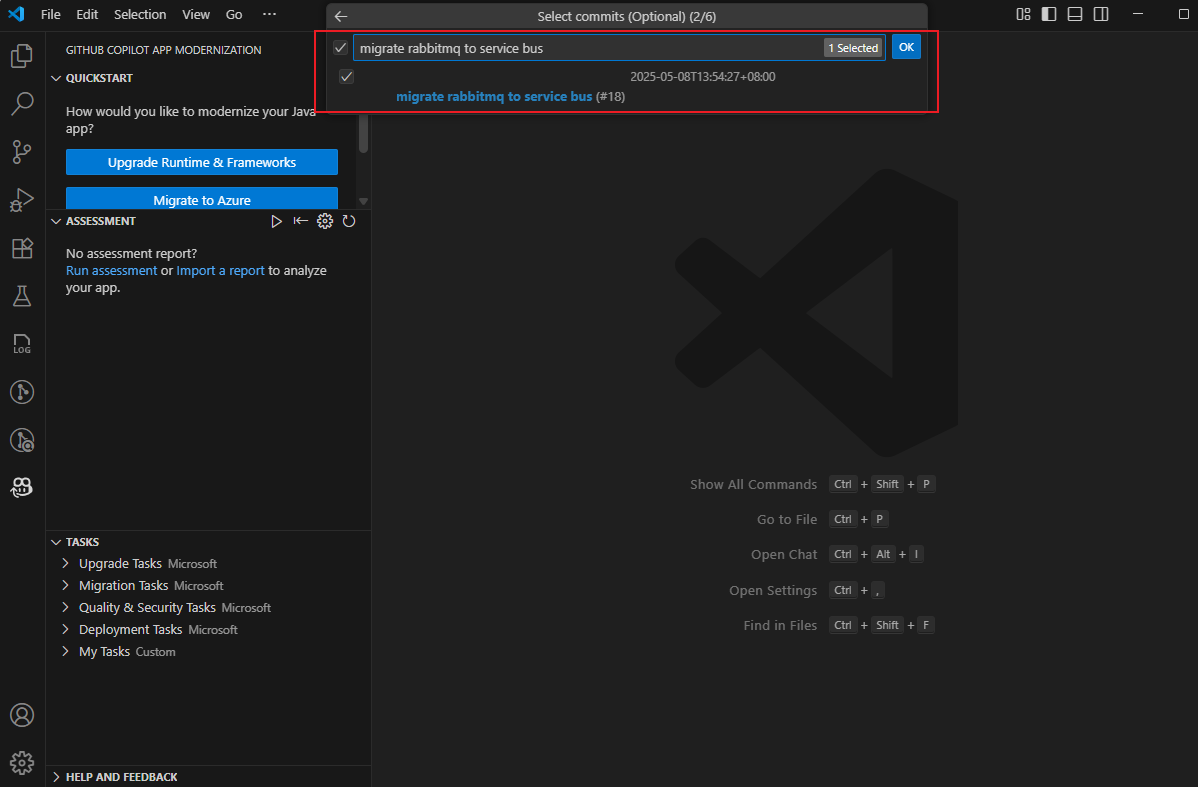
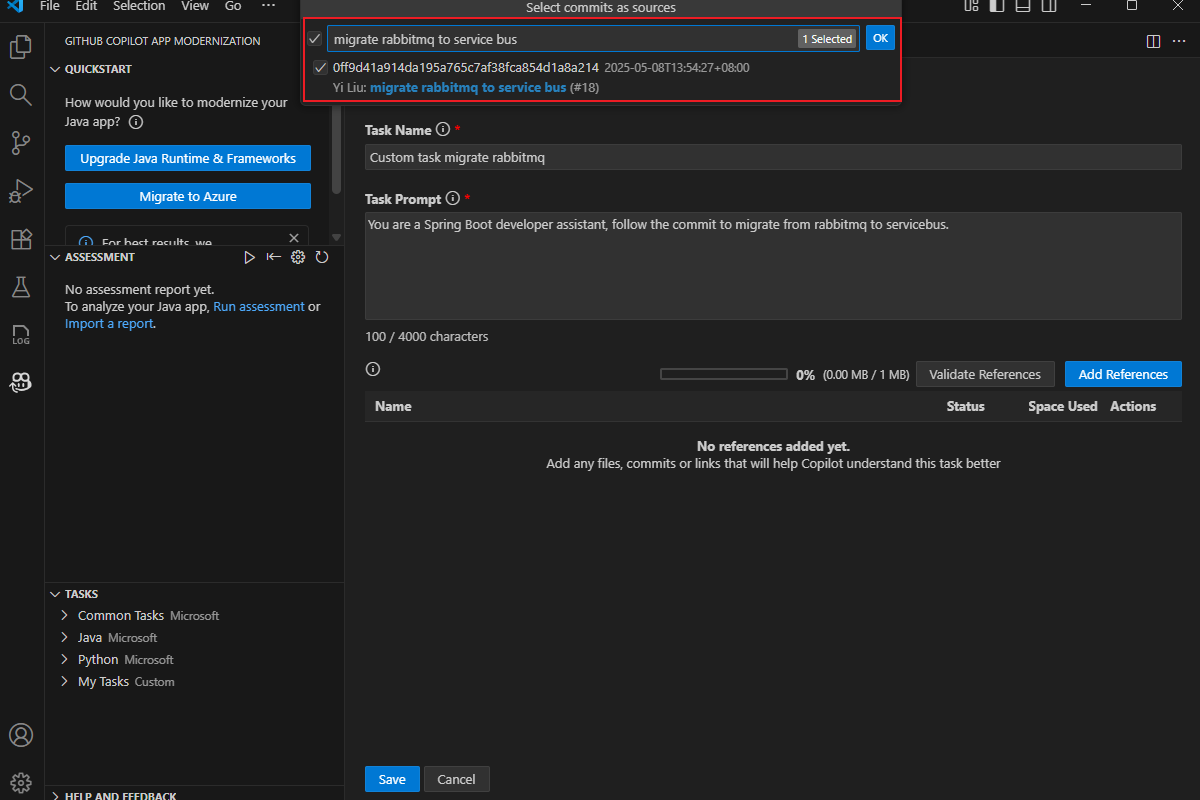
update custom toc

diff --git a/articles/java/migration/migrate-github-copilot-app-modernization-for-java-quickstart-create-and-apply-your-own-task.md b/articles/java/migration/migrate-github-copilot-app-modernization-for-java-quickstart-create-and-apply-your-own-task.md
@@ -33,57 +33,54 @@ Use the following steps to create your own task:
 
 1. Clone the [Java migration copilot samples](https://github.com/Azure-Samples/java-migration-copilot-samples) repository.
 
-1. In Visual Studio Code, open the **rabbitmq-sender** project folder in the samples' repository. Then, check out the project to the **source** branch.
+1. In Visual Studio Code, open the `rabbitmq-sender` project folder from the cloned repository. Then, switch to the **source** branch.
 
-1. In the **Activity** sidebar, open the **GitHub Copilot app modernization** extension pane, hover the mouse over the **TASKS** section, and then select **Create a Custom Task**.
+1. In the **Activity** sidebar, open the **GitHub Copilot app modernization** extension pane, hover over the **TASKS** section and select **Create a Custom Task**.
 
    :::image type="content" source="./media/migrate-github-copilot-app-modernization-for-java/create-task-from-source-control.png" lightbox="./media/migrate-github-copilot-app-modernization-for-java/create-task-from-source-control.png" alt-text="Screenshot of Visual Studio Code that shows the button for Create Custom Task.":::
 
-1. In the pop-up dialog box, select **Create new task**.
+1. A 'task.md' file will open, In the **Task Name** field, enter: "Custom task migrate rabbitmq". In the **Task Prompt** field, enter: "You are a Spring Boot developer assistant, follow the commit to migrate from rabbitmq to servicebus."
 
-   :::image type="content" source="./media/migrate-github-copilot-app-modernization-for-java/select-create-custom-task.png" lightbox="./media/migrate-github-copilot-app-modernization-for-java/select-create-custom-task.png" alt-text="Screenshot of Visual Studio Code that shows the Create new task option.":::
+   :::image type="content" source="./media/migrate-github-copilot-app-modernization-for-java/type-name-and-prompt.png" lightbox="./media/migrate-github-copilot-app-modernization-for-java/type-name-and-prompt.png" alt-text="Screenshot of Visual Studio Code that shows the Create new task option.":::
 
-1. Type **migrate rabbitmq to service bus** to search for the commit that migrates RabbitMQ. Select the corresponding commit and then select **OK**.
+1. Click **Add References**, then select **Git commits** in the pop-up dialog box. 
+
+   :::image type="content" source="./media/migrate-github-copilot-app-modernization-for-java/add-references.png" lightbox="./media/migrate-github-copilot-app-modernization-for-java/add-references.png" alt-text="Screenshot of Visual Studio Code that shows the add references option.":::
+
+1. Search for the commit that migrates RabbitMQ by typing **migrate rabbitmq to service bus**. Select the corresponding commit and click **OK**.
 
    :::image type="content" source="./media/migrate-github-copilot-app-modernization-for-java/commit-for-custom-task.png" lightbox="./media/migrate-github-copilot-app-modernization-for-java/commit-for-custom-task.png" alt-text="Screenshot of the Visual Studio Code dialog box with the heading Select commits you want to save.":::
 
-1. Select any uncommitted changes from **Working tree** if they exist, or you can just skip the choice and select **OK** here.
+1. Click the “Save” button. Your custom task for migrating `rabbitmq` will now appear under **TASKS - My Tasks** section.
 
-    :::image type="content" source="./media/migrate-github-copilot-app-modernization-for-java/select-uncommitted-changes.png" lightbox="./media/migrate-github-copilot-app-modernization-for-java/select-uncommitted-changes.png" alt-text="Screenshot of the Visual Studio Code dialog box with the heading Select uncommitted changes.":::
-
-1. If you want to import the commits from a file, choose **Select Files** in the next pop-up dialog box. This option enables you to select files that contain the commit history you want to use for the custom task and the file you selected is processed locally. Select **Skip file selection** to continue.
-
-   :::image type="content" source="./media/migrate-github-copilot-app-modernization-for-java/import-diff-from-file.png" lightbox="./media/migrate-github-copilot-app-modernization-for-java/import-diff-from-file.png" alt-text="Screenshot of Visual Studio Code that shows the Describe changes using local files dialog box.":::
-
-1. A default task name is generated. Rename it **custom task migrate rabbitmq** and press <kbd>Enter</kbd> to confirm.
-
-   :::image type="content" source="./media/migrate-github-copilot-app-modernization-for-java/enter-task-name.png" lightbox="./media/migrate-github-copilot-app-modernization-for-java/enter-task-name.png" alt-text="Screenshot of Visual Studio Code that shows the Enter task name dialog box.":::
-
-1. A default task description is generated. Press <kbd>Enter</kbd> to confirm.
-
-   :::image type="content" source="./media/migrate-github-copilot-app-modernization-for-java/describe-task-details.png" lightbox="./media/migrate-github-copilot-app-modernization-for-java/describe-task-details.png" alt-text="Screenshot of Visual Studio Code that shows the Describe task details dialog box.":::
-
-1. Now, your own task for migrating `rabbitmq` is generated and shows in the **TASKS - My Tasks** section of the **GitHub Copilot app modernization** pane.
-
-   :::image type="content" source="./media/migrate-github-copilot-app-modernization-for-java/custom-task-rabbitmq.png" lightbox="./media/migrate-github-copilot-app-modernization-for-java/custom-task-rabbitmq.png" alt-text="Screenshot of Visual Studio Code that shows the Tasks section with the rabbitmq task showing.":::
+   :::image type="content" source="./media/migrate-github-copilot-app-modernization-for-java/save-task.png" lightbox="./media/migrate-github-copilot-app-modernization-for-java/save-task.png" alt-text="Screenshot of Visual Studio Code that shows the Tasks section with the rabbitmq task showing.":::
 
 ## Apply your own task
 
 Use the following steps to apply your own task:
 
-1. Find your own task in the **TASKS - My Tasks** section of **GitHub Copilot app modernization** pane. Run this task by selecting **Run Task**.
+1. Click the **Run** button at the bottom of the file. Or find your own task in the **TASKS - My Tasks** section of **GitHub Copilot app modernization** pane and run the task by selecting **Run Task**.
 
-   :::image type="content" source="./media/migrate-github-copilot-app-modernization-for-java/run-task.png" lightbox="./media/migrate-github-copilot-app-modernization-for-java/run-task.png" alt-text="Screenshot of Visual Studio Code that shows the Tasks section with the Run task button highlighted.":::
+   :::image type="content" source="./media/migrate-github-copilot-app-modernization-for-java/run-custom-task.png" lightbox="./media/migrate-github-copilot-app-modernization-for-java/run-custom-task.png" alt-text="Screenshot of Visual Studio Code that shows the Tasks section with the Run task button highlighted.":::
 
-1. The Copilot chat window with Agent Mode opens automatically and proceeds to run various tools in the Copilot Chat window. It creates **plan.md** and **progress.md** for you to review and change. Manually input **continue** to confirm and proceed with the plan.
+1. The Copilot chat window will open in Agent Mode and automatically execute the following steps:
+   - Create **plan.md** and **progress.md**
+   - Check the version control status and checkout a new migration branch
+   - Perform code migration
+   - Run validations: Build, Tests, CVE scan, Consistency, and Completeness
+   - Generate a **summary.md** file
 
-1. During the code changes, repeatedly select **Allow** to let the agent run Git commands - for example, to check the version control system status or checkout a new branch for migration.
+1. If the agent is interrupted or stopped for waiting your confirmation during the execution, just input "continue" to go ahead.
 
-1. Repeatedly input **Continue** to confirm the use of tools and wait for the code changes to finish.
+1. After all steps finished, review the code changes and click **Keep** to confirm in chat window.
 
-1. After code changes finish, repeatedly input **Continue** to proceed with the validation and fix iteration loop.
+## Update/Delete your own task
 
-1. After all validation finishes, review the code changes and confirm them by selecting **Keep**.
+1. Locate the 'Custom task migrate rabbitmq' in the **TASKS - My Tasks** section and right-click to open the context menu and choose:
+   - **Edit** to update the task
+   - **Delete** to remove the task
+
+   :::image type="content" source="./media/migrate-github-copilot-app-modernization-for-java/edit-delete.png" lightbox="./media/migrate-github-copilot-app-modernization-for-java/edit-delete.png" alt-text="Screenshot of Visual Studio Code that shows edit or delete custom task.":::
 
 ## See also
 
